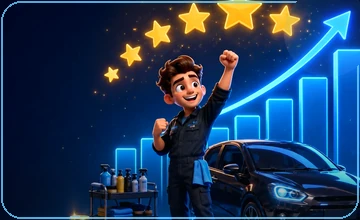
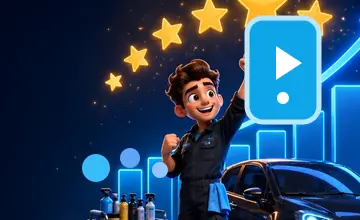
ajuste final de ilustrações

diff --git a/src/components/SceneAnimation.tsx b/src/components/SceneAnimation.tsx
@@ -7,10 +7,11 @@ import polishingScene from '../assets/scenes/polishing.webp';
 import pricingScene from '../assets/scenes/pricing.webp';
 import complaintScene from '../assets/scenes/complaint.webp';
 import growthScene from '../assets/scenes/growth.webp';
-import resultFragileScene from '../assets/scenes/result-fragile.webp';
-import resultPromisingScene from '../assets/scenes/result-promising.webp';
-import resultSustainableScene from '../assets/scenes/result-sustainable.webp';
-import resultExcellentScene from '../assets/scenes/result-excellent.webp';
+import result1StarScene from '../assets/scenes/result-1star.webp';
+import result2StarScene from '../assets/scenes/result-2star.webp';
+import result3StarScene from '../assets/scenes/result-3star.webp';
+import result4StarScene from '../assets/scenes/result-4star.webp';
+import result5StarScene from '../assets/scenes/result-5star.webp';
 import type { CSSProperties } from 'react';
 import type { AnimationScene } from '../types/config';
 import styles from './SceneAnimation.module.css';
@@ -60,21 +61,25 @@ const sceneMap: Record<AnimationScene, { src: string; alt: string }> = {
     src: growthScene,
     alt: 'Ilustração 3D de crescimento do negócio e conquista de estrelas.',
   },
-  'result-fragile': {
-    src: resultFragileScene,
-    alt: 'Ilustração 3D de resultado final com clima mais cauteloso e necessidade de recompor a operação.',
+  'result-1star': {
+    src: result1StarScene,
+    alt: 'Ilustração 3D de resultado de uma estrela, com operação em alerta e necessidade de correção.',
   },
-  'result-promising': {
-    src: resultPromisingScene,
-    alt: 'Ilustração 3D de resultado final com sinais positivos, mas ainda pedindo ajustes para estabilizar o negócio.',
+  'result-2star': {
+    src: result2StarScene,
+    alt: 'Ilustração 3D de resultado de duas estrelas, com estrutura inicial ainda em construção.',
   },
-  'result-sustainable': {
-    src: resultSustainableScene,
-    alt: 'Ilustração 3D de resultado final com equilíbrio operacional e crescimento sustentável.',
+  'result-3star': {
+    src: result3StarScene,
+    alt: 'Ilustração 3D de resultado de três estrelas, com negócio em equilíbrio e decisões comerciais em evolução.',
   },
-  'result-excellent': {
-    src: resultExcellentScene,
-    alt: 'Ilustração 3D de resultado final com excelente desempenho e forte sensação de progresso.',
+  'result-4star': {
+    src: result4StarScene,
+    alt: 'Ilustração 3D de resultado de quatro estrelas, com operação organizada e base sustentável.',
+  },
+  'result-5star': {
+    src: result5StarScene,
+    alt: 'Ilustração 3D de resultado de cinco estrelas, com crescimento forte e excelente desempenho.',
   },
 };
 

diff --git a/src/utils/preloadVisualAssets.ts b/src/utils/preloadVisualAssets.ts
@@ -7,10 +7,11 @@ import polishingScene from '../assets/scenes/polishing.webp';
 import pricingScene from '../assets/scenes/pricing.webp';
 import complaintScene from '../assets/scenes/complaint.webp';
 import growthScene from '../assets/scenes/growth.webp';
-import resultFragileScene from '../assets/scenes/result-fragile.webp';
-import resultPromisingScene from '../assets/scenes/result-promising.webp';
-import resultSustainableScene from '../assets/scenes/result-sustainable.webp';
-import resultExcellentScene from '../assets/scenes/result-excellent.webp';
+import result1StarScene from '../assets/scenes/result-1star.webp';
+import result2StarScene from '../assets/scenes/result-2star.webp';
+import result3StarScene from '../assets/scenes/result-3star.webp';
+import result4StarScene from '../assets/scenes/result-4star.webp';
+import result5StarScene from '../assets/scenes/result-5star.webp';
 import garageChoice from '../assets/choices/garage.webp';
 import storeChoice from '../assets/choices/store.webp';
 import mobileChoice from '../assets/choices/mobile.webp';
@@ -49,10 +50,11 @@ const visualAssets = [
   pricingScene,
   complaintScene,
   growthScene,
-  resultFragileScene,
-  resultPromisingScene,
-  resultSustainableScene,
-  resultExcellentScene,
+  result1StarScene,
+  result2StarScene,
+  result3StarScene,
+  result4StarScene,
+  result5StarScene,
   garageChoice,
   storeChoice,
   mobileChoice,

diff --git a/src/features/game/GamePage.tsx b/src/features/game/GamePage.tsx
@@ -136,7 +136,7 @@ export function GamePage() {
     return (
       <main className={styles.page}>
         <section className={styles.resultHero}>
-          <SceneAnimation scene={getResultScene(result.bandId)} />
+          <SceneAnimation scene={getResultScene(result.stars)} />
           <div className={styles.resultContent}>
             <span className={styles.kicker}>Resultado final da fase 1</span>
             <h1>{band.title}</h1>
@@ -405,18 +405,12 @@ export function GamePage() {
   );
 }
 
-function getResultScene(bandId: GameResult["bandId"]): "result-fragile" | "result-promising" | "result-sustainable" | "result-excellent" {
-  switch (bandId) {
-    case "excellent":
-      return "result-excellent";
-    case "sustainable":
-      return "result-sustainable";
-    case "promising":
-      return "result-promising";
-    case "fragile":
-    default:
-      return "result-fragile";
-  }
+function getResultScene(stars: number): "result-1star" | "result-2star" | "result-3star" | "result-4star" | "result-5star" {
+  if (stars < 1.5) return "result-1star";
+  if (stars < 2.5) return "result-2star";
+  if (stars < 3.5) return "result-3star";
+  if (stars < 4.5) return "result-4star";
+  return "result-5star";
 }
 
 function FeedbackModal({

diff --git a/src/components/SceneAnimation.module.css b/src/components/SceneAnimation.module.css
@@ -26,10 +26,11 @@
 .pricing { --scene-x: 54%; }
 .complaint { --scene-x: 60%; }
 .growth { --scene-x: 62%; }
-.result-fragile { --scene-x: 62%; }
-.result-promising { --scene-x: 62%; }
-.result-sustainable { --scene-x: 62%; }
-.result-excellent { --scene-x: 62%; }
+.result-1star { --scene-x: 62%; }
+.result-2star { --scene-x: 62%; }
+.result-3star { --scene-x: 62%; }
+.result-4star { --scene-x: 62%; }
+.result-5star { --scene-x: 62%; }
 
 .image {
   position: absolute;

diff --git a/src/types/config.ts b/src/types/config.ts
@@ -88,10 +88,11 @@ export type AnimationScene =
   | 'pricing'
   | 'complaint'
   | 'growth'
-  | 'result-fragile'
-  | 'result-promising'
-  | 'result-sustainable'
-  | 'result-excellent';
+  | 'result-1star'
+  | 'result-2star'
+  | 'result-3star'
+  | 'result-4star'
+  | 'result-5star';
 
 export interface DecisionConfig {
   id: string;
